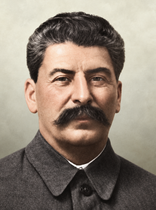
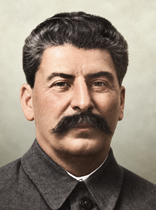
Enlarge Stalin leader portrait

diff --git a/MOD制作日志.md b/MOD制作日志.md
@@ -6,7 +6,7 @@
 
 - 仅修改测试版。以用户补充的 `1490×1920` 黑白历史照片为身份与构图底稿，重新修复、克制上色斯大林国家领导人大头像；保持原有 sprite 名称和 `gfx/GFX_portrait_RUS_iosif_stalin_civilian_large.png` 路径，不改人物定义与政治效果。
 - 背景改为 KR 俄罗斯领导人常用的暖象牙灰，并按参考图制作上亮下暗的纵向层次：最终顶角均值约为 `228/225/208`，对应 KR 参考约为 `230/227/210`。背景调整仅作用于与画布边缘连通的暖灰区域，人物发丝、耳朵、脸部和制服轮廓保持完整。
-- 最终构图在生成底稿上放大 `1.16` 倍，保留约 6% 的头顶留白，使头部占比接近 KR 现有斯大林头像；经 Lanczos 缩放输出为 `156×210` RGB PNG。顾问及其他小尺寸界面使用的 `GFX_portrait_RUS_iosif_stalin_civilian_small` 保持不变。
+- 最终构图在生成底稿上放大 `1.25` 倍，保留约 6% 的头顶留白，使游戏内头部占比接近 KR 现有领导人头像；经 Lanczos 缩放输出为 `156×210` RGB PNG。顾问及其他小尺寸界面使用的 `GFX_portrait_RUS_iosif_stalin_civilian_small` 保持不变。
 - 黑白原图、生成底稿与裁剪记录保存在 `tools/art_sources/stalin_portrait_20260914/`，开发素材由上传脚本排除。`interface/Stalin_form_sov.gfx` 经 RHoiScribe 验证为绿色、零诊断；上传目录干净重建后，运行时头像与测试版源码 SHA256 一致。
 
 ## 2026-09-13 — 重绘单兵负荷轻量化纲要国策图标
